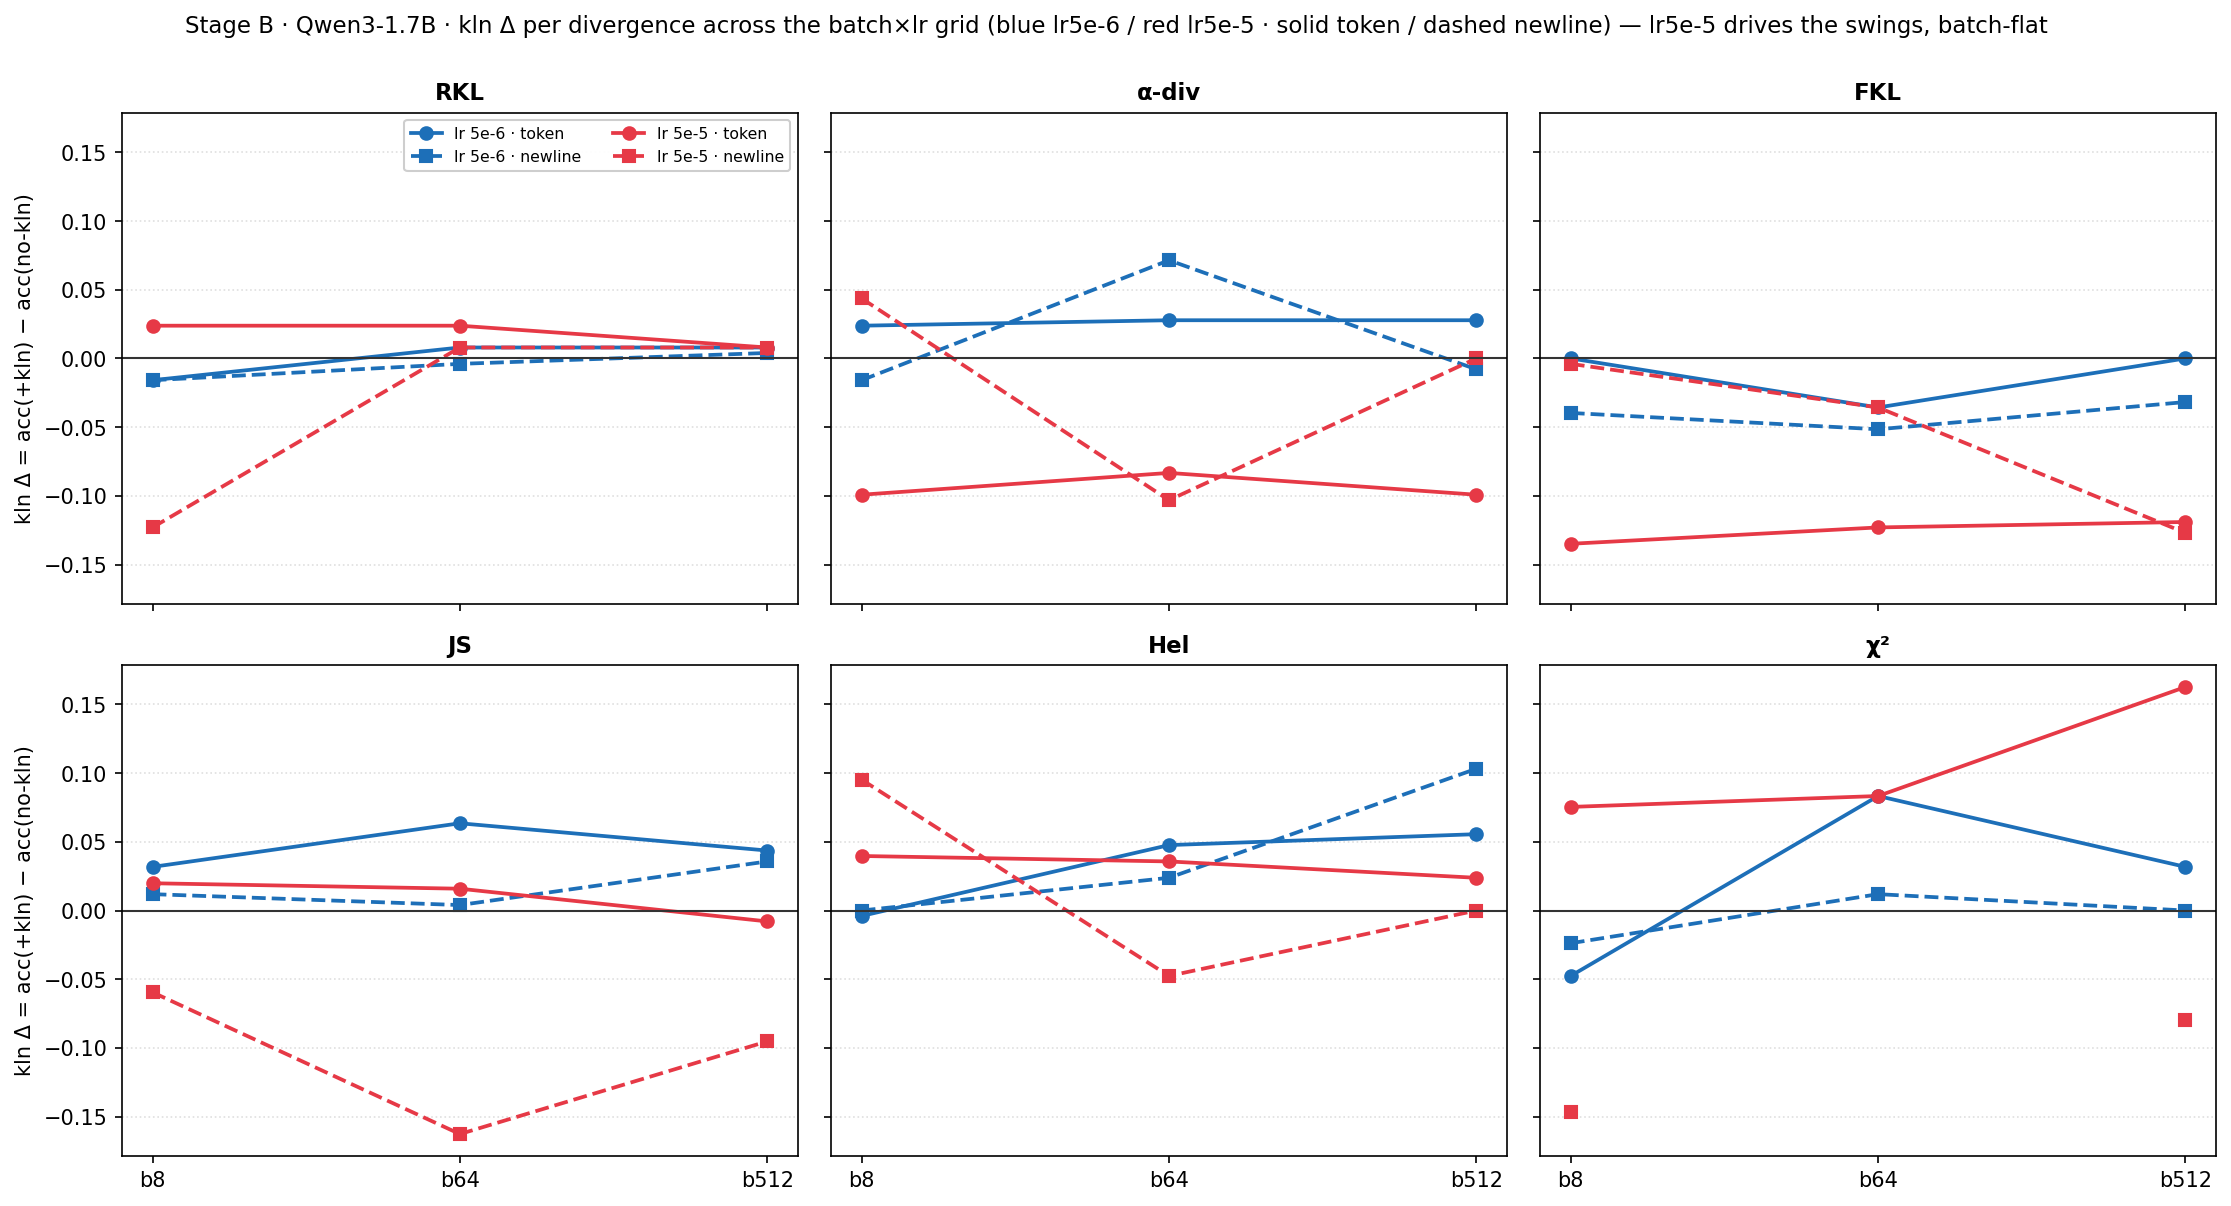
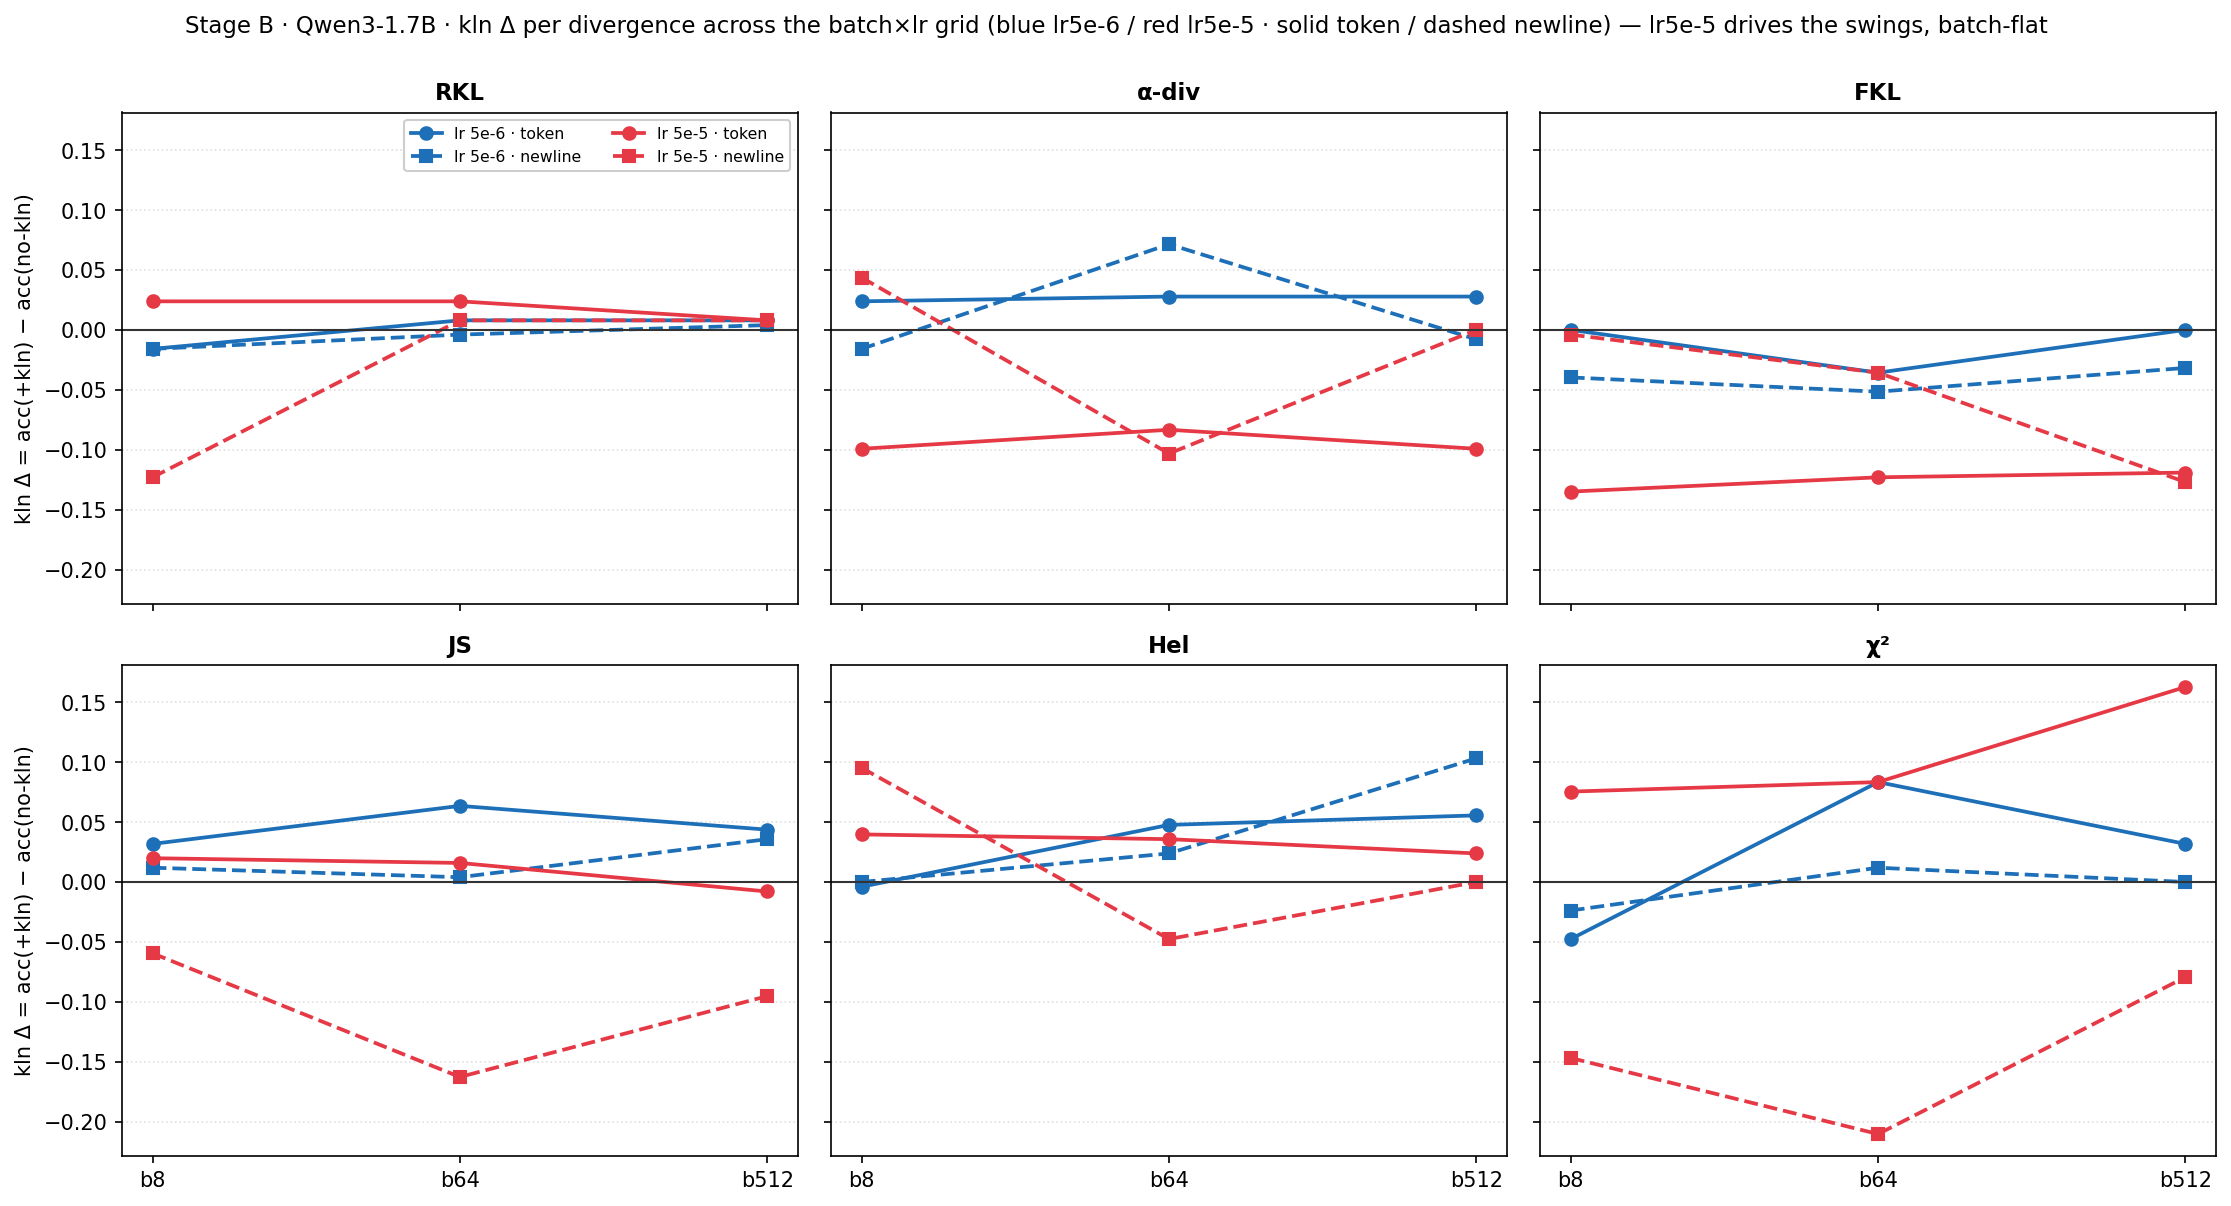
seed reproducibility figure + complete batch×lr grid (chi2 cell filled)
fig_stage_seeds.py: held-out acc mean±std across seeds {0=mid,1,2} per div, token vs newline (recipe
b64/lr5e-6/UC-SFT single-sample). Finding: RKL newline 0.709±0.005 — highest AND tightest; newline
reproducible across all seeds; token has occasional collapse (seed-2 RKL/FKL token → ~0.49 chance,
other seeds ~0.70) → newline is the more robust operating point. Regenerated batch×lr grid figs now
that hilr chi2 b64-newline-kln cell (task 48 rerun) completed.

diff --git a/llm/fig_stage_seeds.py b/llm/fig_stage_seeds.py
@@ -1,0 +1,66 @@
+"""
+fig_stage_seeds.py — seed reproducibility of the settled recipe (batch 64, lr 5e-6, UC-SFT,
+single-sample). Held-out accuracy mean ± std across seeds {0 = results/mid, 1,2 = results/seeds},
+per divergence, token vs newline. Shows RKL-newline is both highest and tightest (most reproducible).
+
+    python3 fig_stage_seeds.py [--kln] [--out results/stageB_seed-variance]
+"""
+from __future__ import annotations
+import argparse, json, os
+import numpy as np
+import matplotlib
+matplotlib.use("Agg")
+import matplotlib.pyplot as plt
+from divergences import SHORT
+
+DIVS = ["kl", "adiv", "rkl", "js", "hel", "chi2"]
+
+
+def _le(f):
+    if not os.path.exists(f):
+        return None
+    h = json.load(open(f))["history"]; e = [x for x in h if "eval_acc" in x]
+    return e[-1]["eval_acc"] if e else None
+
+
+def seed_accs(div, gran, kln):
+    lab = f"{gran}_kln" if kln else gran
+    vals = [_le(f"results/mid/stageB_{div}_sft_{lab}_mid1p7b.json"),          # seed 0
+            _le(f"results/seeds/stageB_{div}_{lab}_seed1_1p7b.json"),          # seed 1
+            _le(f"results/seeds/stageB_{div}_{lab}_seed2_1p7b.json")]          # seed 2
+    return [v for v in vals if v is not None]
+
+
+def main():
+    ap = argparse.ArgumentParser()
+    ap.add_argument("--kln", action="store_true")
+    ap.add_argument("--out", default=None)
+    args = ap.parse_args()
+    args.out = args.out or ("results/stageB_seed-variance" + ("_kln" if args.kln else ""))
+
+    x = np.arange(len(DIVS)); w = 0.38
+    fig, ax = plt.subplots(figsize=(11, 5.6))
+    print(f"single-sample {'+kln' if args.kln else '(no-kln)'} — held-out acc mean±std (raw seeds)")
+    for j, (gran, col) in enumerate([("token", "#457b9d"), ("newline", "#e63946")]):
+        means, stds = [], []
+        for d in DIVS:
+            a = seed_accs(d, gran, args.kln)
+            m = np.mean(a) if a else np.nan
+            s = np.std(a) if len(a) > 1 else 0.0
+            means.append(m); stds.append(s)
+            print(f"  {SHORT[d]:5s} {gran:8s}: {m:.3f}±{s:.3f} (n{len(a)})  raw={['%.3f'%v for v in a]}")
+        ax.bar(x + (j - 0.5) * w, means, w, yerr=stds, capsize=4, color=col, edgecolor="#222", lw=0.5,
+               error_kw=dict(lw=1.2), label=gran)
+    ax.axhline(0.5, color="0.6", ls=":", lw=1)
+    ax.set_xticks(x); ax.set_xticklabels([SHORT[d] for d in DIVS])
+    ax.set_ylabel("held-out preference accuracy (mean ± std over seeds)")
+    ax.set_ylim(0.45, 0.80)
+    ax.set_title(f"Stage B · Qwen3-1.7B · seed reproducibility (recipe b64/lr5e-6/UC-SFT, single-sample"
+                 f"{'+kln' if args.kln else ''}) · seeds {{0,1,2}}", fontsize=10.5)
+    ax.legend(title="granularity", fontsize=9)
+    fig.tight_layout(); fig.savefig(args.out + ".png", dpi=150, bbox_inches="tight")
+    print("wrote", args.out + ".png")
+
+
+if __name__ == "__main__":
+    main()
